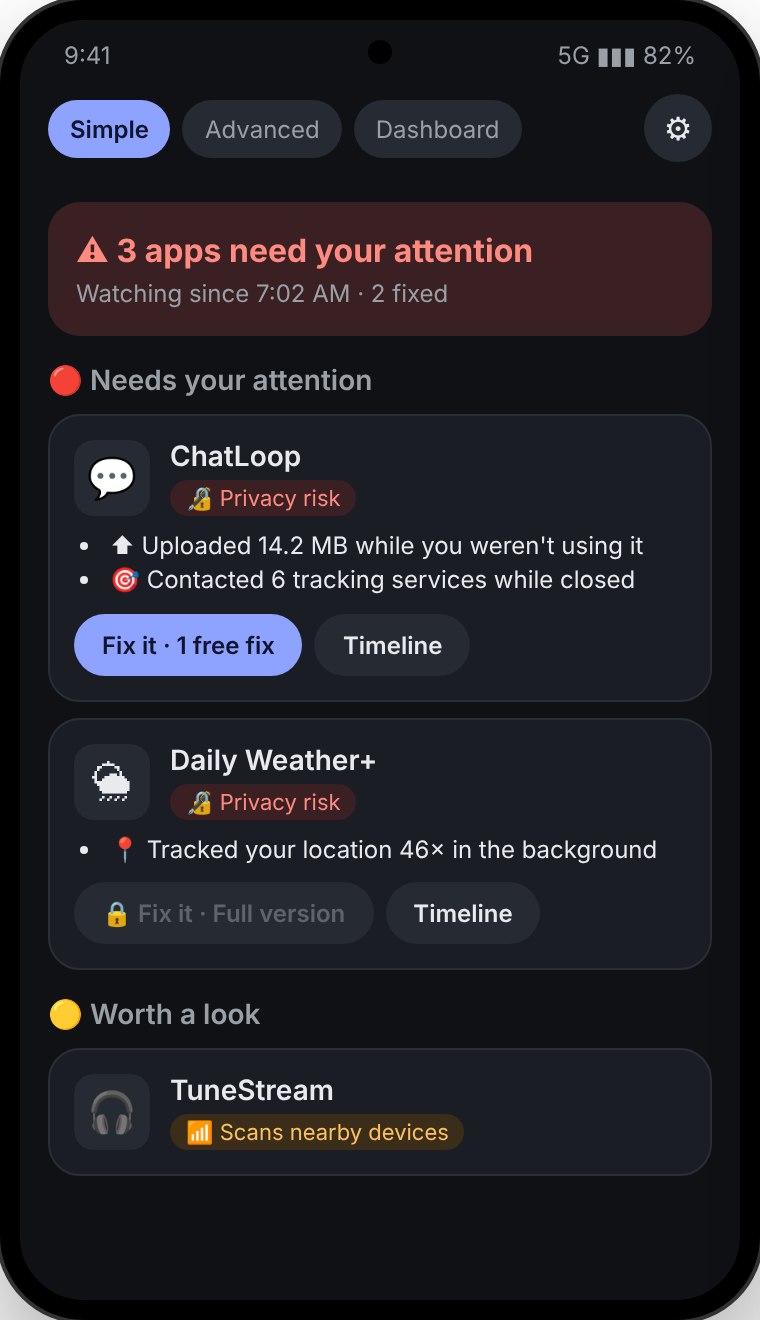
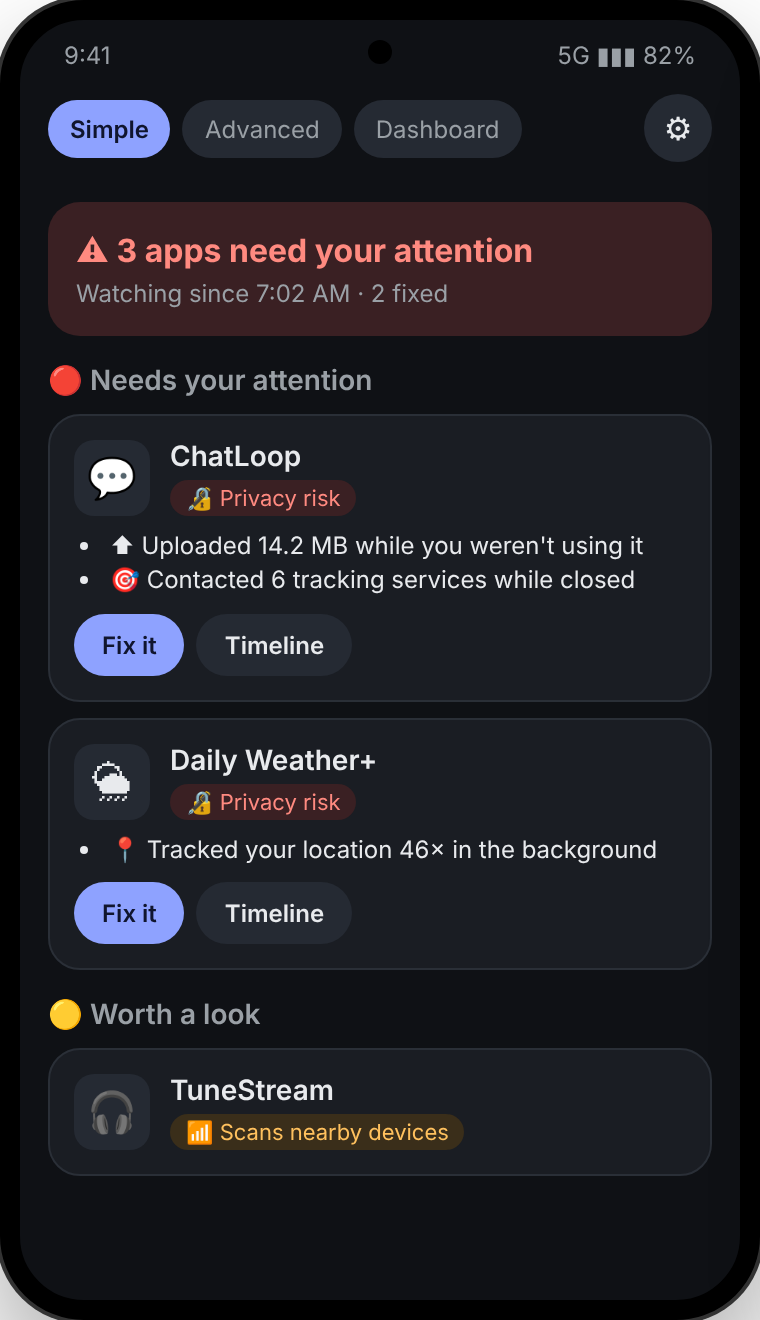
Fix sample-report button text in dark mode; show full-version Fix it buttons in screenshots
Claude-Session: https://claude.ai/code/session_01XdjYnQbAyse5DfWRDQtaw8

diff --git a/index.html b/index.html
@@ -31,7 +31,7 @@
   .hero h1 { font-size: clamp(2rem, 5vw, 3rem); line-height:1.1; margin:0 0 14px; letter-spacing:-.02em; }
   .lead { font-size:1.2rem; color:var(--muted); margin:0 0 22px; }
   .cta { display:inline-block; background:var(--accent); color:#fff; padding:12px 22px; border-radius:999px; font-weight:600; text-decoration:none; margin:0 10px 10px 0; }
-  @media (prefers-color-scheme: dark) { :root:not([data-theme="light"]) .cta { color:#10152e; } }
+  @media (prefers-color-scheme: dark) { :root:not([data-theme="light"]) .cta { color:#10152e; } :root:not([data-theme="light"]) .cta.ghost { color:var(--accent); } }
   .cta.ghost { background:transparent; color:var(--accent); border:1.5px solid var(--accent); }
   .badges { display:flex; flex-wrap:wrap; gap:8px; margin-top:14px; }
   .badge { font-size:.85rem; padding:4px 12px; border-radius:999px; background:var(--soft); border:1px solid var(--line); color:var(--muted); }
@@ -111,7 +111,7 @@
         <span class="badge">🚫 No ads</span><span class="badge">🚫 No analytics</span><span class="badge">📱 Everything stays on your phone</span><span class="badge">↩ Undo for every fix</span>
       </div>
     </div>
-    <img class="phone" src="img/simple.png" alt="Privacy Watch's Simple screen listing three apps that need attention, with Fix it buttons">
+    <img class="phone" src="img/simple.png?v=2" alt="Privacy Watch's Simple screen listing three apps that need attention, with Fix it buttons">
   </div>
 </div>
 
@@ -130,7 +130,7 @@
         <li>Plain-English "How it could be misused" — by a company and by an attacker</li>
       </ul>
     </div>
-    <img class="phone" src="img/simple.png" alt="Findings list with red privacy risks and an amber worth-a-look item">
+    <img class="phone" src="img/simple.png?v=2" alt="Findings list with red privacy risks and an amber worth-a-look item">
   </div>
 
   <div class="feature flip">
@@ -143,7 +143,7 @@
         <li>Access → network links within two minutes</li>
       </ul>
     </div>
-    <img class="phone" src="img/timeline.png" alt="Timeline for a weather app showing location accesses followed by tracker lookups">
+    <img class="phone" src="img/timeline.png?v=2" alt="Timeline for a weather app showing location accesses followed by tracker lookups">
   </div>
 
   <div class="feature">
@@ -156,7 +156,7 @@
         <li>Before / after counts so you can see it worked</li>
       </ul>
     </div>
-    <img class="phone" src="img/fix.png" alt="Fix it confirmation listing battery restriction, background data block and contacts block">
+    <img class="phone" src="img/fix.png?v=2" alt="Fix it confirmation listing battery restriction, background data block and contacts block">
   </div>
 
   <div class="feature flip">
@@ -169,7 +169,7 @@
         <li>Re-applying is part of the original fix</li>
       </ul>
     </div>
-    <img class="phone" src="img/undone.png" alt="A card saying a fix was undone for a music app, with Re-apply and Leave it buttons">
+    <img class="phone" src="img/undone.png?v=2" alt="A card saying a fix was undone for a music app, with Re-apply and Leave it buttons">
   </div>
 
   <div class="feature">
@@ -182,7 +182,7 @@
         <li>Tracker domains and who contacted them</li>
       </ul>
     </div>
-    <img class="phone" src="img/dashboard.png" alt="Dashboard with tiles for privacy risks, background accesses and trackers, and a most-active list">
+    <img class="phone" src="img/dashboard.png?v=2" alt="Dashboard with tiles for privacy risks, background accesses and trackers, and a most-active list">
   </div>
 
   <div class="feature flip">
@@ -195,7 +195,7 @@
         <li>User-installed certificates, hidden apps, screen recording</li>
       </ul>
     </div>
-    <img class="phone" src="img/audit.png" alt="Settings audit showing a sideloaded QR scanner with accessibility access flagged for review">
+    <img class="phone" src="img/audit.png?v=2" alt="Settings audit showing a sideloaded QR scanner with accessibility access flagged for review">
   </div>
 </div></section>
 
@@ -224,11 +224,11 @@
   <p class="sub">Generate a report on the phone and email it as a PDF or open it in your browser. Built on the phone — nothing is uploaded to make it. These samples use made-up apps and data.</p>
   <div class="reports">
     <a class="report" href="/samples/executive-report.html">
-      <img src="img/report-executive.png" alt="Sample executive summary report with status tiles and donut charts" loading="lazy">
+      <img src="img/report-executive.png?v=2" alt="Sample executive summary report with status tiles and donut charts" loading="lazy">
       <div><strong>Executive summary</strong><span>A one-page answer to "is my phone OK?": what needs attention, what was fixed, and how each finding could be misused.</span><b>Open sample →</b></div>
     </a>
     <a class="report" href="/samples/technical-report.html">
-      <img src="img/report-technical.png" alt="Sample technical report with collection status, domain charts and activity over time" loading="lazy">
+      <img src="img/report-technical.png?v=2" alt="Sample technical report with collection status, domain charts and activity over time" loading="lazy">
       <div><strong>Technical report</strong><span>Every chart and table: domains, hour-by-hour activity, a heatmap per app, data sent, access → network links and the settings audit.</span><b>Open sample →</b></div>
     </a>
   </div>
@@ -247,12 +247,12 @@
 <section><div class="wrap">
   <h2>Gallery</h2>
   <div class="gallery">
-    <figure><img src="img/simple.png" alt="" loading="lazy"><figcaption>Findings</figcaption></figure>
-    <figure><img src="img/timeline.png" alt="" loading="lazy"><figcaption>Timeline</figcaption></figure>
-    <figure><img src="img/dashboard.png" alt="" loading="lazy"><figcaption>Dashboard</figcaption></figure>
-    <figure><img src="img/fix.png" alt="" loading="lazy"><figcaption>Fix it</figcaption></figure>
-    <figure><img src="img/undone.png" alt="" loading="lazy"><figcaption>Fix check</figcaption></figure>
-    <figure><img src="img/audit.png" alt="" loading="lazy"><figcaption>Settings audit</figcaption></figure>
+    <figure><img src="img/simple.png?v=2" alt="" loading="lazy"><figcaption>Findings</figcaption></figure>
+    <figure><img src="img/timeline.png?v=2" alt="" loading="lazy"><figcaption>Timeline</figcaption></figure>
+    <figure><img src="img/dashboard.png?v=2" alt="" loading="lazy"><figcaption>Dashboard</figcaption></figure>
+    <figure><img src="img/fix.png?v=2" alt="" loading="lazy"><figcaption>Fix it</figcaption></figure>
+    <figure><img src="img/undone.png?v=2" alt="" loading="lazy"><figcaption>Fix check</figcaption></figure>
+    <figure><img src="img/audit.png?v=2" alt="" loading="lazy"><figcaption>Settings audit</figcaption></figure>
   </div>
 </div></section>
 
